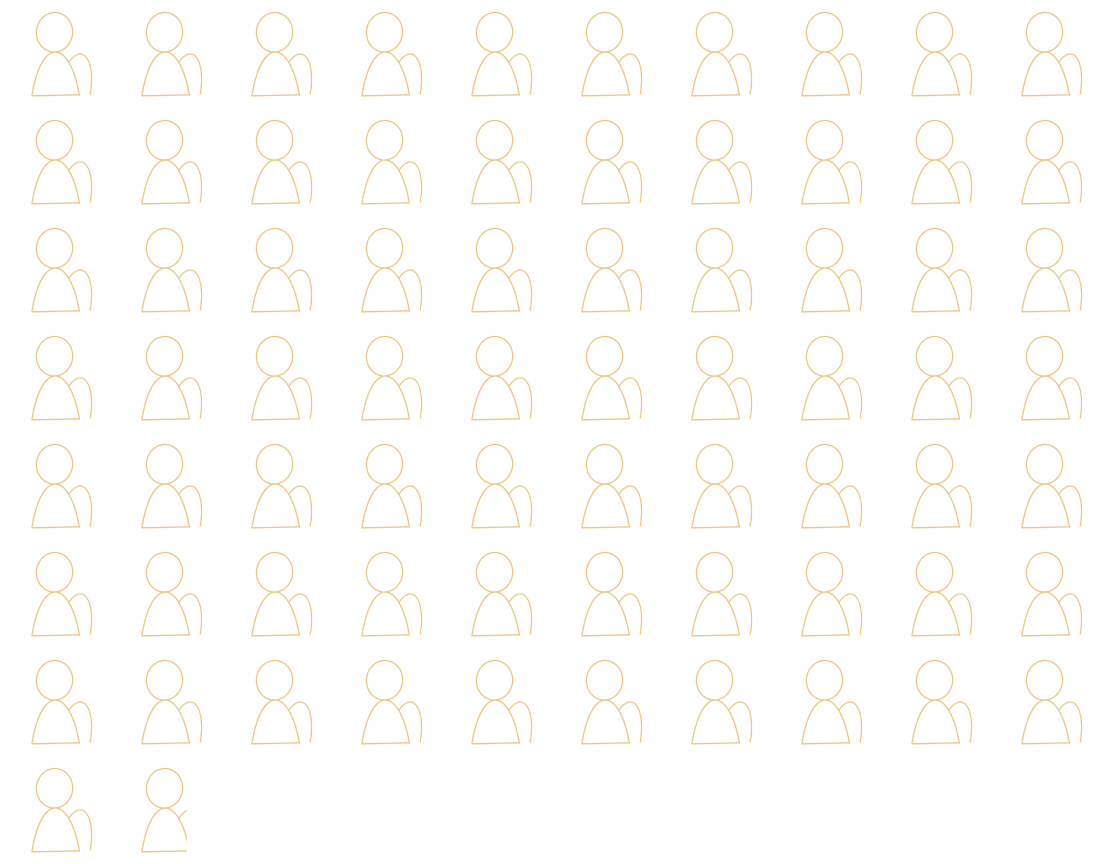
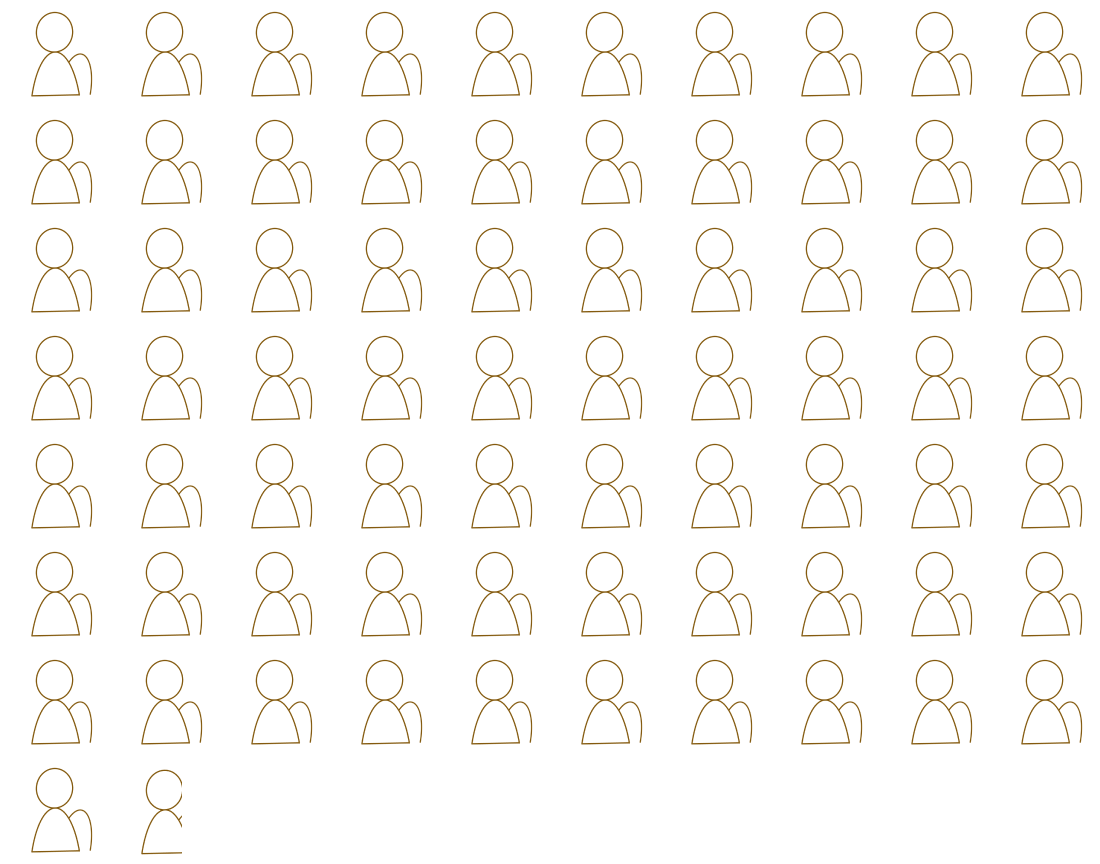
added figure background and changed coloring

diff --git a/demographics-sections.js b/demographics-sections.js
@@ -12,8 +12,10 @@ var scroller = scrollama();
 
 var genzTitle = d3.select('#gen-z-title')
 var boomerTitle = d3.select('#boomer-title')
+var genzText = d3.select('#gen-z-text')
+var boomerText = d3.select('#boomer-text')
 var genzSVG = d3.select('#gen-z-area').append('svg').attr('width', 400).attr('height', 400)
-var boomerSVG = d3.select('#boomer-area').append('svg').attr('width', 400).attr('height', 400)
+var boomerSVG = d3.select('#boomer-area').append('svg').attr('width', 400).attr('height', 340)
 
 
 function handleResize() {
@@ -53,11 +55,13 @@ function handleResize() {
       boomerTitle.text('')
     } else if (response.index == 1) {
       genzTitle.text('GenZ Age Range')
+      genzText.text('')
       genzSVG.selectAll('image').remove()
       genzSVG.append('image')
       .attr('xlink:href', 'genz_age.png')
       .attr('width', 370).attr('height', 300)
       boomerTitle.text('Boomer Age Range')
+      boomerText.text('')
       boomerSVG.selectAll('image').remove()
       boomerSVG.append('image')
       .attr('xlink:href', 'boomer_age.png')
@@ -66,49 +70,57 @@ function handleResize() {
 
     } else if (response.index == 2) {
       genzTitle.text('GenZ Population: 68 Million')
+      genzText.text('')
       genzSVG.selectAll('image').remove()
       genzSVG.append('image')
       .attr('xlink:href', 'genz_population.png')
       .attr('width', 400).attr('height', 330)
       boomerTitle.text('Boomer Population: 71.6 Million')
+      boomerText.text('')
       boomerSVG.selectAll('image').remove()
       boomerSVG.append('image')
       .attr('xlink:href', 'boomer_population.png')
-      .attr('width', 400).attr('height', 350)
+      .attr('width', 400).attr('height', 330)
 
     } else if (response.index == 3) {
       genzTitle.text('Smartphones')
+      genzText.text('')
       genzSVG.selectAll('image').remove()
       genzSVG.append('image')
       .attr('xlink:href', 'smartphone.png')
       .attr('width', 400).attr('height', 330)
       boomerTitle.text('Television')
+      boomerText.text('')
       boomerSVG.selectAll('image').remove()
       boomerSVG.append('image')
       .attr('xlink:href', 'retrotv.png')
-      .attr('width', 400).attr('height', 350)
+      .attr('width', 400).attr('height', 330)
     } else if (response.index == 4) {
       genzTitle.text('Black Lives Matter Movement')
+      genzText.text('Started summer of 2013, when the Zoomers were around 13 years old.')
       genzSVG.selectAll('image').remove()
       genzSVG.append('image')
       .attr('xlink:href', 'blm.png')
-      .attr('width', 400).attr('height', 300)
+      .attr('width', 300).attr('height', 300)
       boomerTitle.text('Civil Rights Movement')
+      boomerText.text('From 1854-1968, when the Boomers were around 10 years old.')
       boomerSVG.selectAll('image').remove()
       boomerSVG.append('image')
       .attr('xlink:href', 'crm.png')
-      .attr('width', 400).attr('height', 300)
+      .attr('width', 300).attr('height', 300)
     } else if (response.index == 5) {
       genzTitle.text('SpaceX Falcon 9')
+      genzText.text('Launched November 15 2020, the first launch in a decade.')
       genzSVG.selectAll('image').remove()
       genzSVG.append('image')
       .attr('xlink:href', 'falcon.png')
-      .attr('width', 400).attr('height', 300)
+      .attr('width', 300).attr('height', 250)
       boomerTitle.text('Mercury Freedom 7')
+      boomerText.text('Launched May 5 1961, the first successful human launch into space')
       boomerSVG.selectAll('image').remove()
       boomerSVG.append('image')
       .attr('xlink:href', 'freedom.png')
-      .attr('width', 400).attr('height', 300)
+      .attr('width', 300).attr('height', 250)
     } else if (response.index == 6) {
       
     }

diff --git a/index.html b/index.html
@@ -44,11 +44,13 @@
           <div class="gen-z-figure" id="demographics-gen-z-figure">
             <!-- <img src='genz_age.png'></img> -->
             <div class="genz-title" id="gen-z-title"></div>
+            <div class="genz-text" id="gen-z-text"></div>
             <div class="genz-area" id="gen-z-area"></div>
           </div>
           <div class="boomer-figure" id="demographics-boomer-figure">
             <!-- <img src='boomer_age.png'></img> -->
             <div class="boomer-title" id="boomer-title"></div>
+            <div class="boomer-text" id="boomer-text"></div>
             <div class="boomer-area" id="boomer-area"></div>
           </div>
         </figure>

diff --git a/style.css b/style.css
@@ -33,7 +33,7 @@ body {
   }
 
   .gen-z-figure {
-    /* background-color: None; */
+    background-color: rgb(211, 218, 217);
     display: flex;
     flex-direction: column;
     justify-content: flex-start;
@@ -42,7 +42,7 @@ body {
     
   }
   .boomer-figure{
-    /* background-color: None; */
+    background-color: rgb(237, 233, 217);
     display: flex;
     flex-direction: column;
     justify-content: flex-end;
@@ -74,6 +74,16 @@ body {
     /* width:80%; */
     font-size: 32px;
     color:#282828;
+  }
+
+  .genz-text {
+    display: flex;
+    justify-content: flex-start;
+  }
+
+  .boomer-text {
+    display: flex;
+    justify-content: flex-end;
   }
 
 
